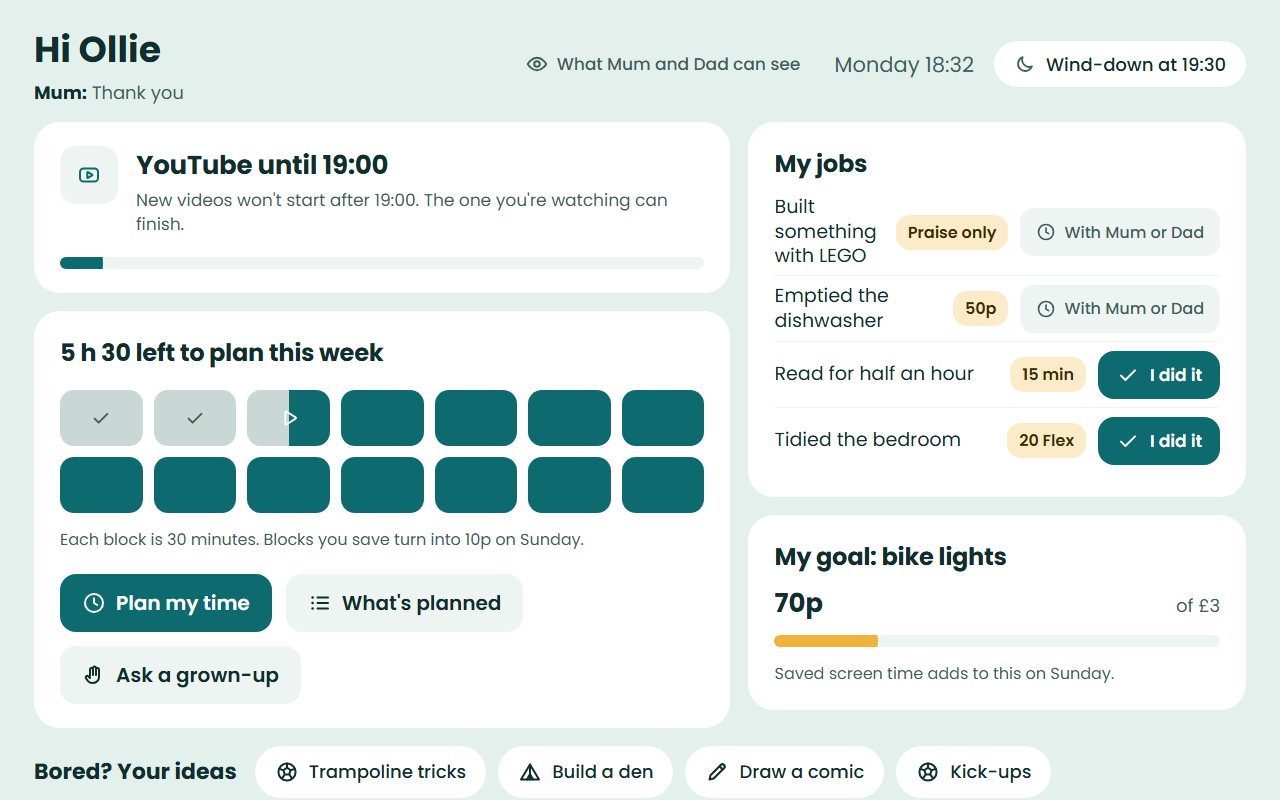
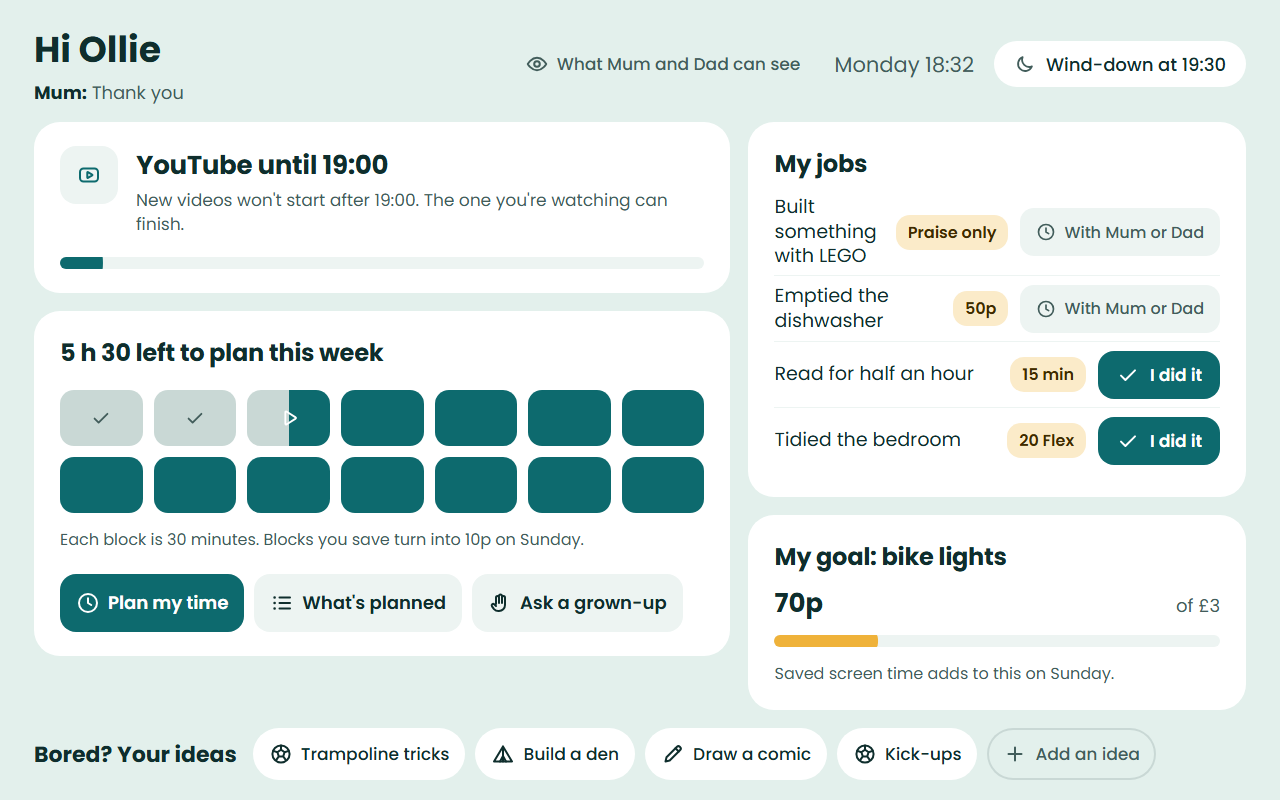
chore(kiosk): the home fits 1280 by 800, Phase 6 screenshots, and version 0.7.0

Changed region(s): [[0.0, 0.8125, 0.9062, 1.0], [0.0625, 0.7188, 0.5312, 0.8125]]

diff --git a/apps/kiosk/src/styles.css b/apps/kiosk/src/styles.css
@@ -763,3 +763,22 @@ textarea {
     transition: none;
   }
 }
+
+/* The week card's three buttons on one line, and the ideas row inside 1280 by 800. */
+.week .actions .btn {
+  padding: 0 16px;
+  font-size: 18px;
+  gap: 8px;
+}
+.week .actions {
+  gap: 10px;
+  flex-wrap: nowrap;
+}
+.idea {
+  padding: 0 16px;
+  font-size: 17px;
+  gap: 8px;
+}
+.ideas {
+  gap: 10px;
+}
